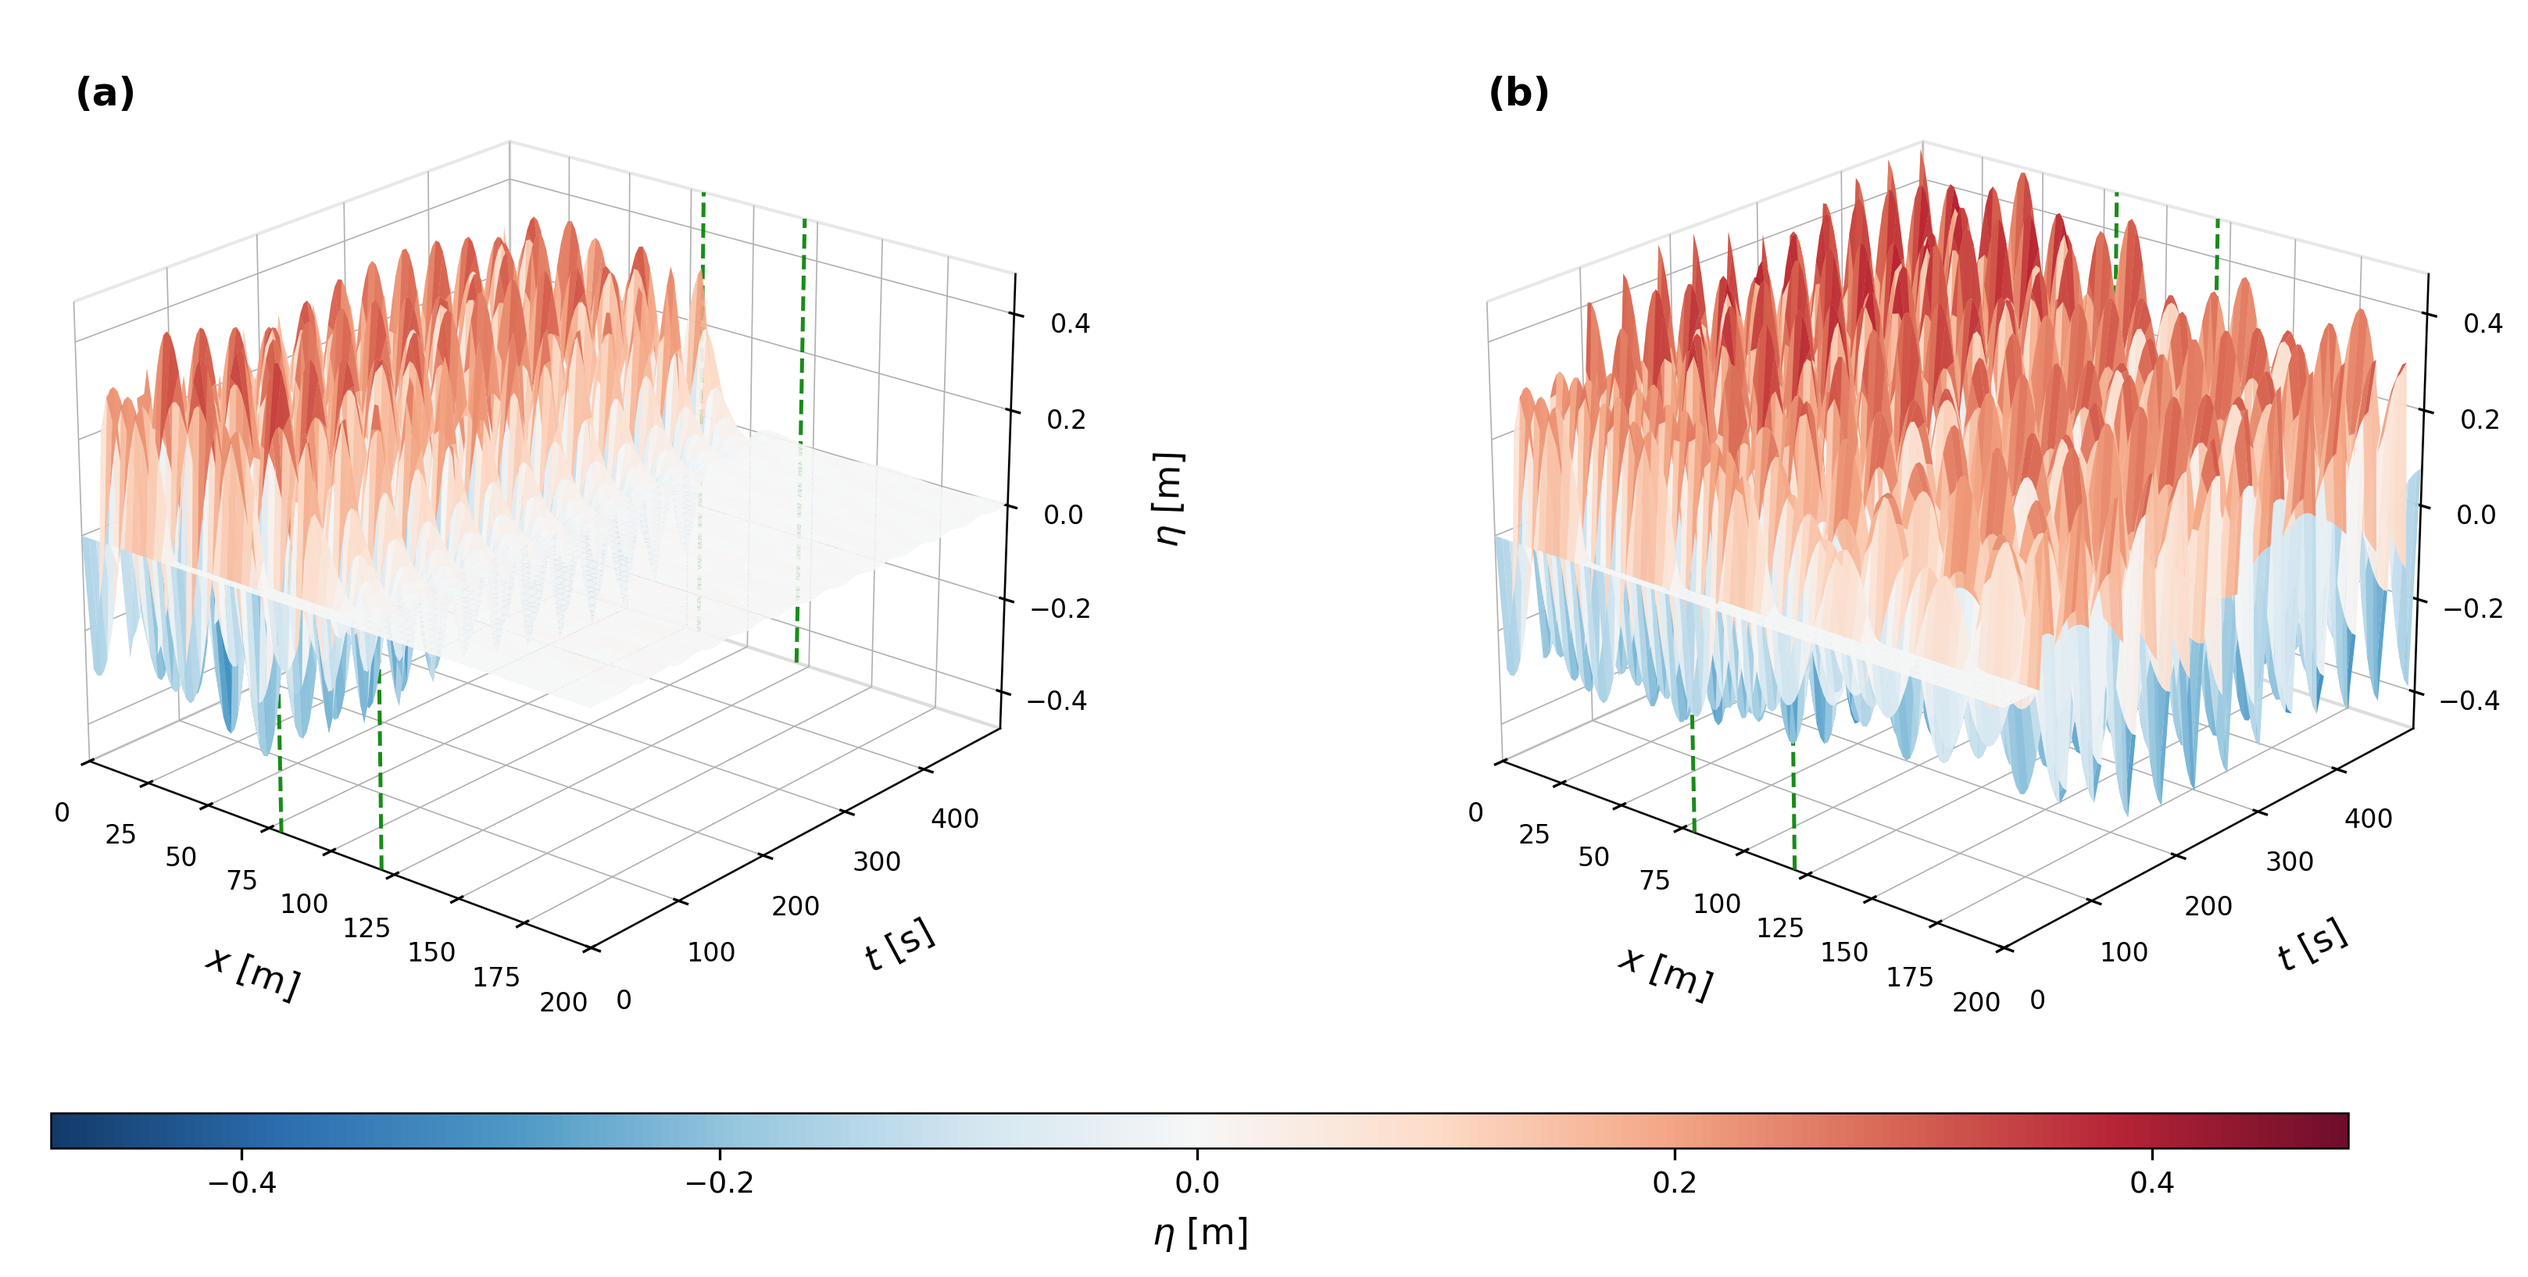
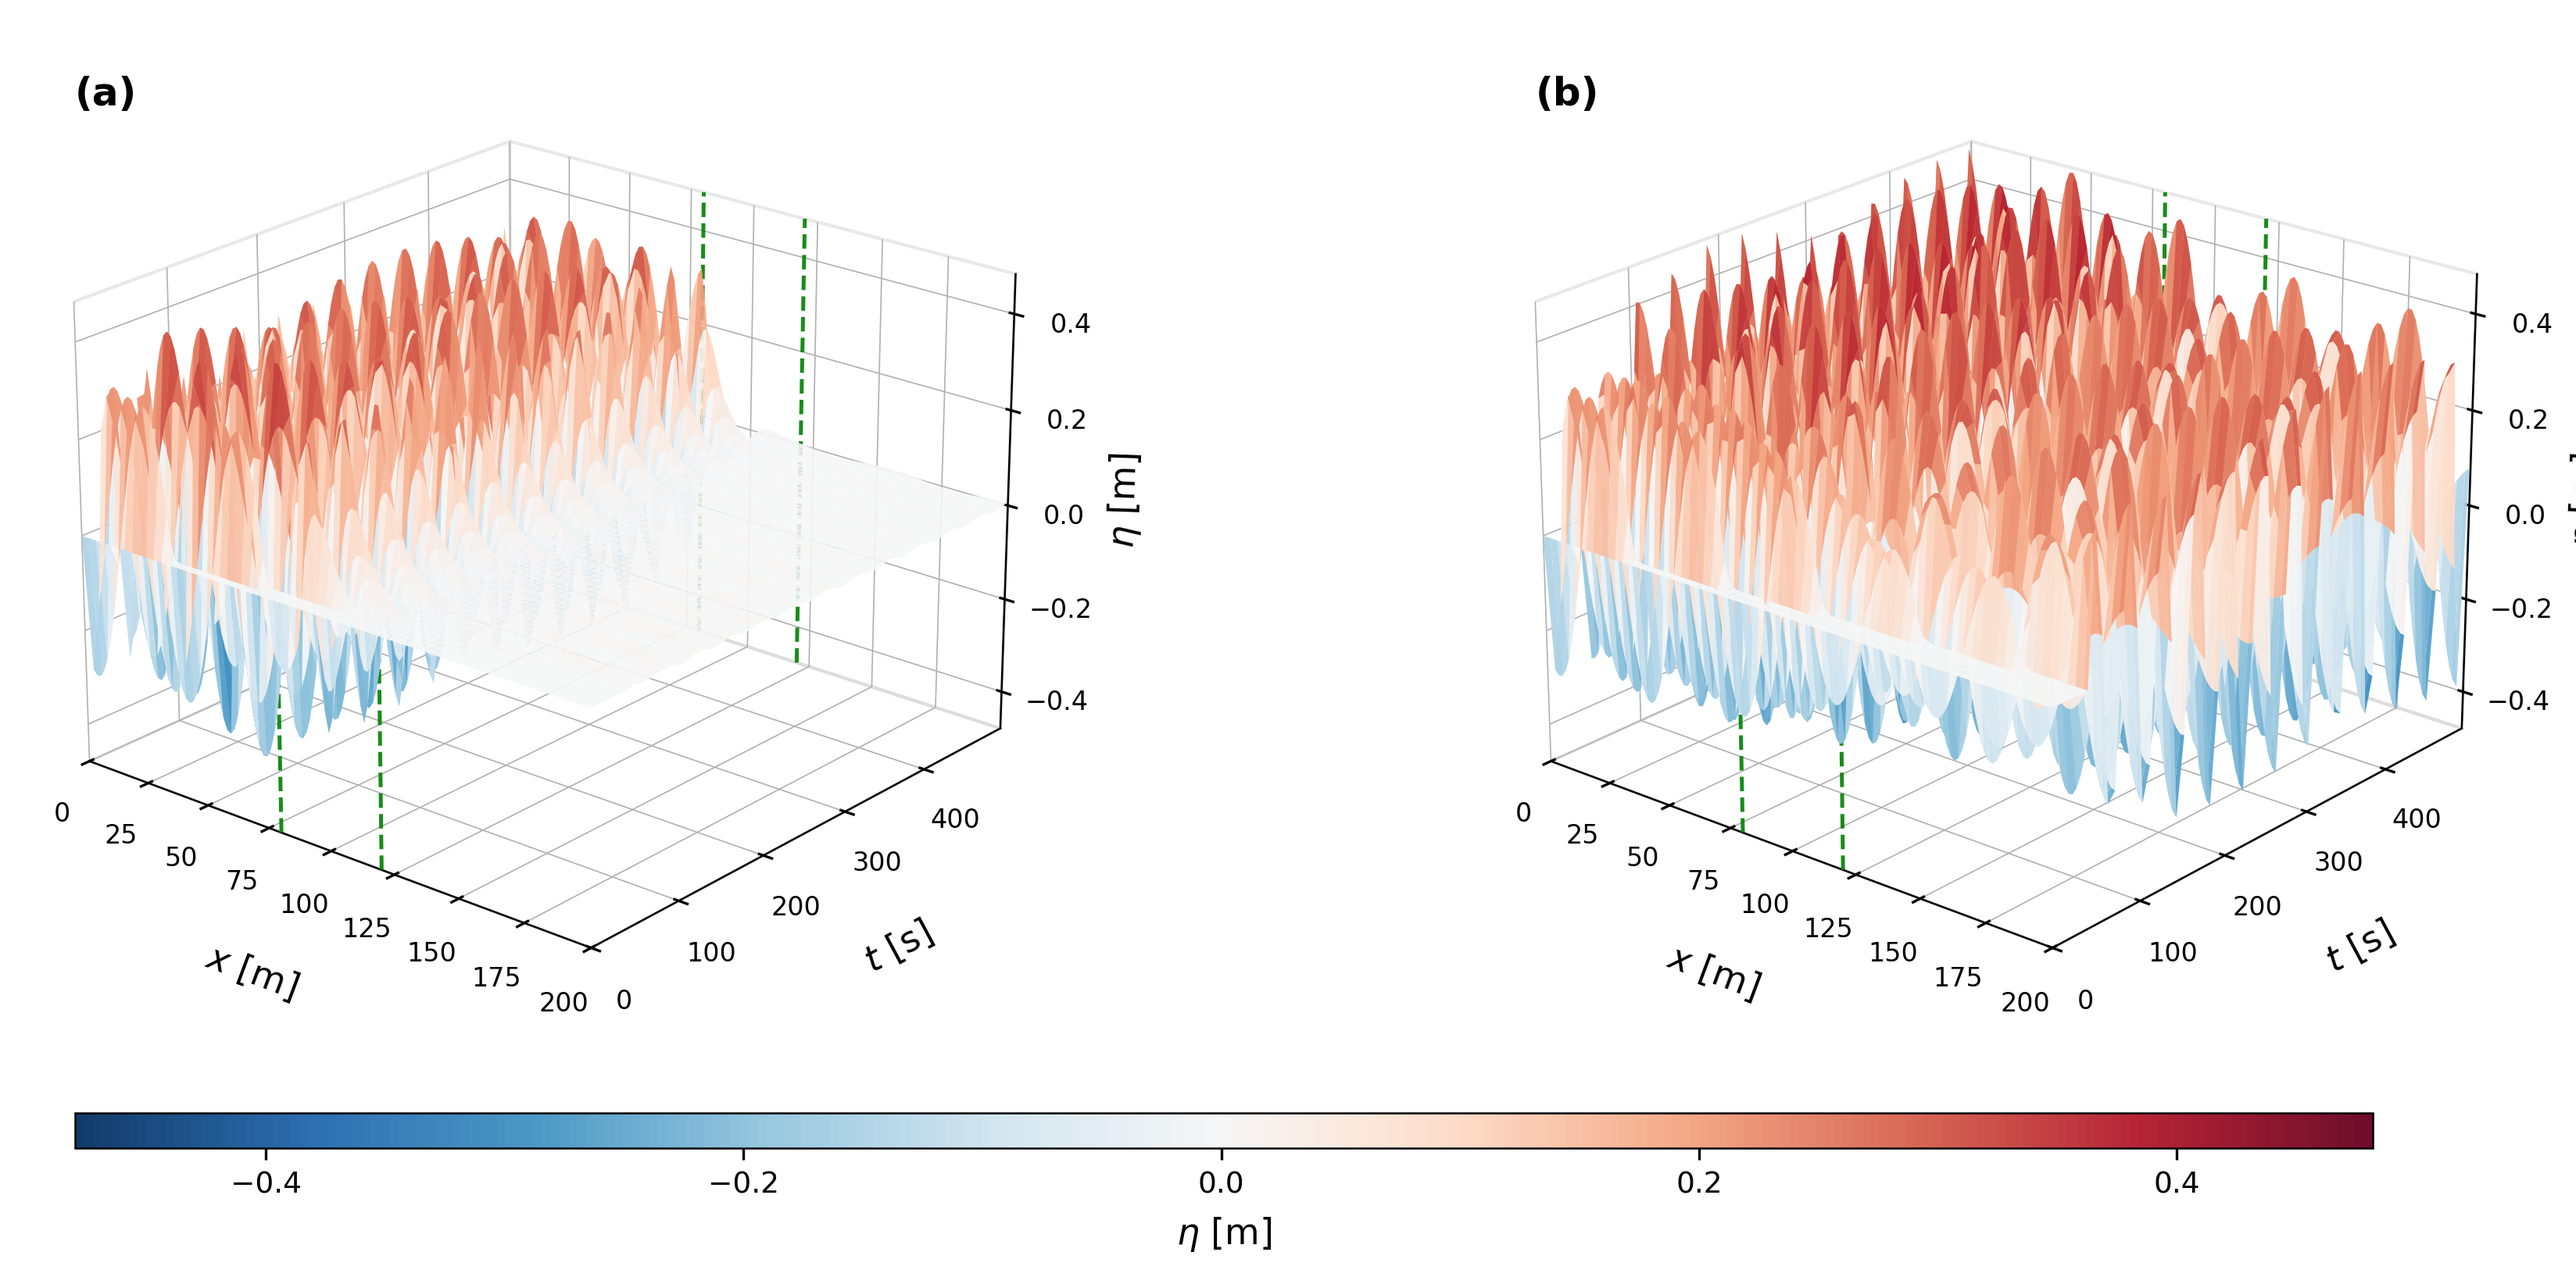
revise figs

diff --git a/script/energy_density_eta_analysis.py b/script/energy_density_eta_analysis.py
@@ -127,7 +127,7 @@ def create_eta_3d_plot(data, figs_dir):
     
     # Create gridspec for precise layout control
     gs = gridspec.GridSpec(2, 2, height_ratios=[1, 0.05], width_ratios=[1, 1],
-                           hspace=0.02, wspace=0.25)
+                           hspace=0.02, wspace=0.35)
     
     # Left panel - Dense vegetation (a)
     ax1 = fig.add_subplot(gs[0, 0], projection='3d')
@@ -147,7 +147,7 @@ def create_eta_3d_plot(data, figs_dir):
     # Set labels
     ax1.set_xlabel(r'$x$ [m]', labelpad=8)
     ax1.set_ylabel(r'$t$ [s]', labelpad=8)
-    ax1.set_zlabel(r'$\eta$ [m]', labelpad=8)
+    ax1.set_zlabel(r'$\eta$ [m]', labelpad=0)
     
     # Panel label
     ax1.text2D(0.05, 0.92, '(a)', transform=ax1.transAxes, fontsize=12, fontweight='bold')
@@ -185,7 +185,7 @@ def create_eta_3d_plot(data, figs_dir):
     # Set labels
     ax2.set_xlabel(r'$x$ [m]', labelpad=8)
     ax2.set_ylabel(r'$t$ [s]', labelpad=8)
-    ax2.set_zlabel(r'$\eta$ [m]', labelpad=8)
+    ax2.set_zlabel(r'$\eta$ [m]', labelpad=0)
     
     # Panel label
     ax2.text2D(0.05, 0.92, '(b)', transform=ax2.transAxes, fontsize=12, fontweight='bold')
@@ -251,7 +251,7 @@ def create_energy_3d_plot(data, figs_dir):
     
     # Create gridspec for precise layout control
     gs = gridspec.GridSpec(2, 2, height_ratios=[1, 0.05], width_ratios=[1, 1],
-                           hspace=0.02, wspace=0.25)
+                           hspace=0.02, wspace=0.35)
     
     # Left panel - Dense vegetation (a)
     ax1 = fig.add_subplot(gs[0, 0], projection='3d')
@@ -261,17 +261,17 @@ def create_energy_3d_plot(data, figs_dir):
                               linewidth=0, antialiased=True, alpha=0.95,
                               rcount=80, ccount=80, shade=True)
     
-    # Add vegetation zone boundary lines
+    # Add vegetation zone boundary lines (green)
     for t_val in [t_sub[0], t_sub[-1]]:
         ax1.plot([veg_start, veg_start], [t_val, t_val], [energy_min, energy_max], 
-                'w--', linewidth=1.2, alpha=0.9)
+                'g--', linewidth=1.2, alpha=0.9)
         ax1.plot([veg_end, veg_end], [t_val, t_val], [energy_min, energy_max], 
-                'w--', linewidth=1.2, alpha=0.9)
+                'g--', linewidth=1.2, alpha=0.9)
     
     # Set labels
     ax1.set_xlabel(r'$x$ [m]', labelpad=8)
     ax1.set_ylabel(r'$t$ [s]', labelpad=8)
-    ax1.set_zlabel(r'$E$ [J/m$^3$]', labelpad=8)
+    ax1.set_zlabel(r'$E$ [J/m$^3$]', labelpad=0)
     
     # Panel label
     ax1.text2D(0.05, 0.92, '(a)', transform=ax1.transAxes, fontsize=12, fontweight='bold')
@@ -299,17 +299,17 @@ def create_energy_3d_plot(data, figs_dir):
                               linewidth=0, antialiased=True, alpha=0.95,
                               rcount=80, ccount=80, shade=True)
     
-    # Add vegetation zone boundary lines
+    # Add vegetation zone boundary lines (green)
     for t_val in [t_sub[0], t_sub[-1]]:
         ax2.plot([veg_start, veg_start], [t_val, t_val], [energy_min, energy_max], 
-                'w--', linewidth=1.2, alpha=0.9)
+                'g--', linewidth=1.2, alpha=0.9)
         ax2.plot([veg_end, veg_end], [t_val, t_val], [energy_min, energy_max], 
-                'w--', linewidth=1.2, alpha=0.9)
+                'g--', linewidth=1.2, alpha=0.9)
     
     # Set labels
     ax2.set_xlabel(r'$x$ [m]', labelpad=8)
     ax2.set_ylabel(r'$t$ [s]', labelpad=8)
-    ax2.set_zlabel(r'$E$ [J/m$^3$]', labelpad=8)
+    ax2.set_zlabel(r'$E$ [J/m$^3$]', labelpad=0)
     
     # Panel label
     ax2.text2D(0.05, 0.92, '(b)', transform=ax2.transAxes, fontsize=12, fontweight='bold')
